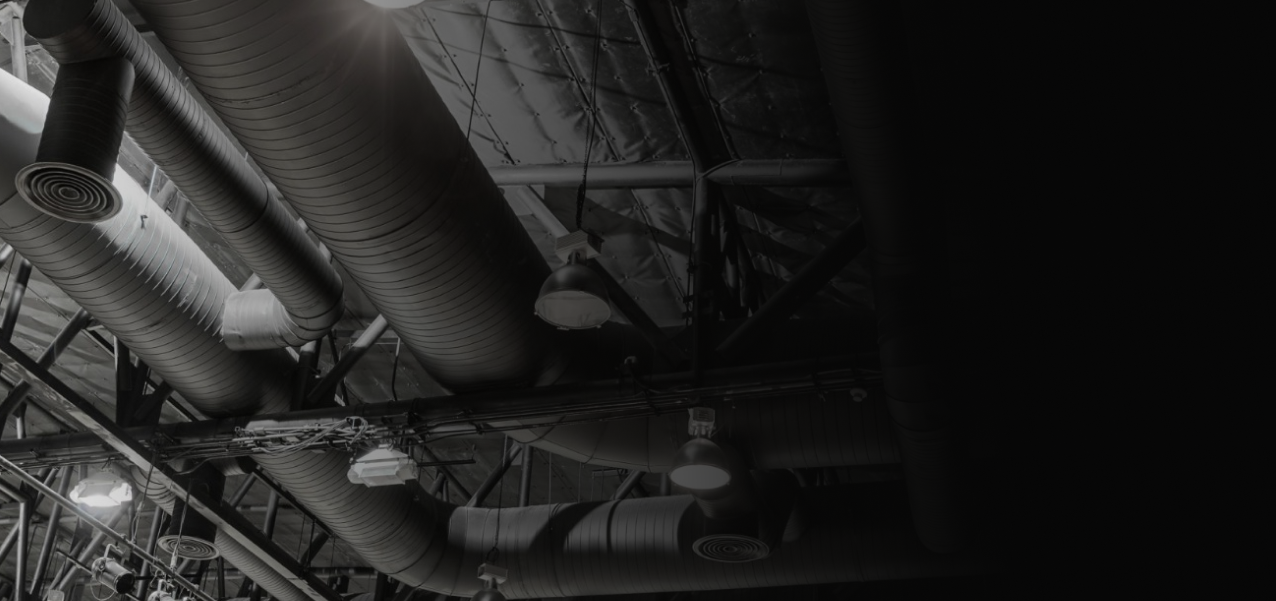
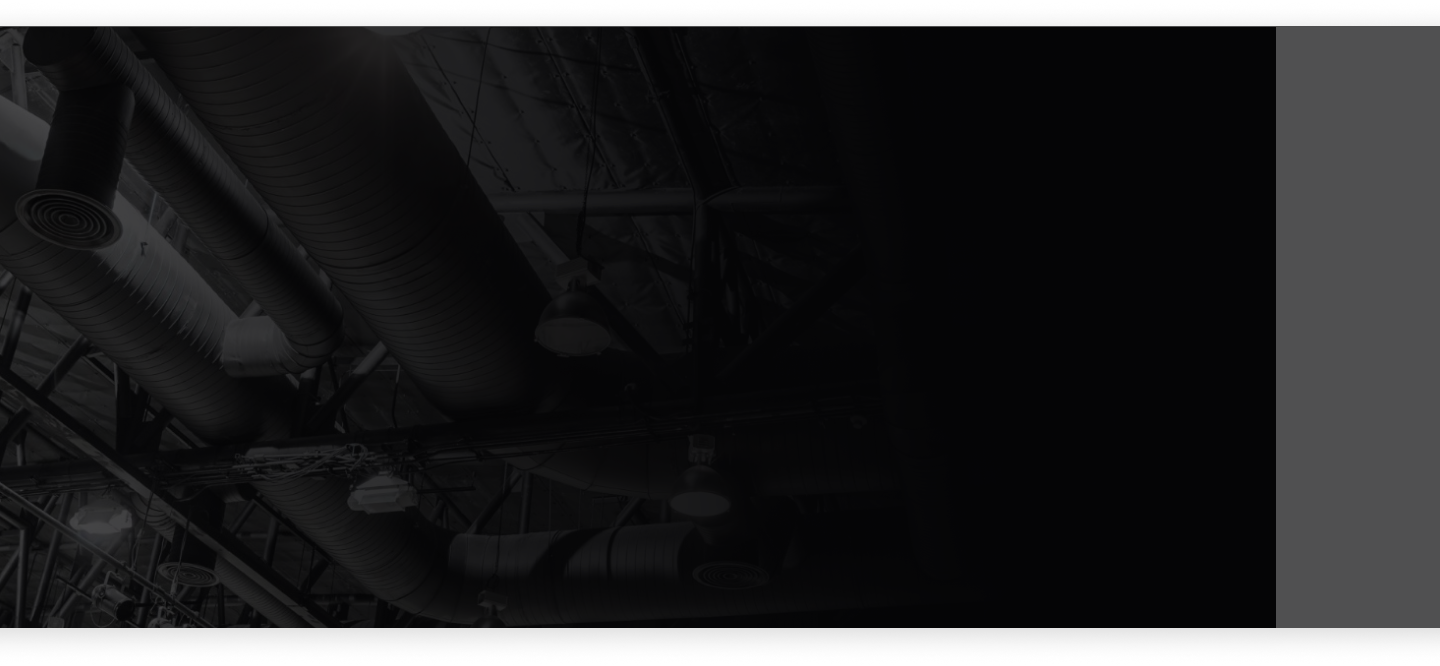
start adaptive page-service

diff --git a/src/scss/_page-service.scss b/src/scss/_page-service.scss
@@ -7,6 +7,7 @@
   // .construction__wrapper
   &__wrapper {
     padding-top: 40px;
+    padding-bottom: 120px;
     // padding-bottom: 60px;
     display: flex;
     flex-direction: column;
@@ -51,7 +52,7 @@
     display: flex;
     flex-direction: column;
     row-gap: 20px;
-    padding-bottom: 120px;
+    
   }
   // .construction__info
   &__info {
@@ -74,7 +75,7 @@
     flex-direction: column;
     row-gap: 55px;
     border-radius: 9px;
-    background: rgba(116, 113, 113, 0.10);
+    background-color: rgba(116, 113, 113, 0.10);
     box-shadow: 1px 1px 7px -4px rgba(6, 6, 6, 0.31) inset, 0px 4px 4px 0px rgba(0, 0, 0, 0.25);
     backdrop-filter: blur(7.5px);
     @extend %poir-400;
@@ -109,7 +110,7 @@
 //.finishes
 //========================================================================================================================================================
 .finishes {
-  padding-top: 60px;
+  // padding-top: 60px;
   padding-bottom: 75px;
   padding-right: max(15px, calc((100% - 1170px) / 2));
   padding-left: max(15px, calc((100% - 1440px) / 2));
@@ -146,6 +147,7 @@
   }
   // .finishes__title-logo
   &__title-logo {
+    overflow: hidden;
     img {
       width: 41px;
       height: 53px;
@@ -171,10 +173,10 @@
 //.reconstruction
 //========================================================================================================================================================
 .reconstruction {
-  padding-left: max(15px, calc((100% - 1170px) / 2));
-  padding-right: max(15px, calc((100% - 1440px) / 2));
   padding-top: 75px;
   padding-bottom: 45px;
+  padding-left: max(15px, calc((100% - 1170px) / 2));
+  padding-right: max(15px, calc((100% - 1440px) / 2));
   // .reconstruction__wrapper
   &__wrapper {
     padding-bottom: 20px;
@@ -201,6 +203,7 @@
   }
   // .reconstruction__title-logo
   &__title-logo {
+    overflow: hidden;
     img {
       width: 41px;
       height: 53px;
@@ -238,7 +241,7 @@
     max-width: 480px;
     padding: 32px;
     border-radius: 9px;
-    background: rgba(116, 113, 113, 0.10);
+    background-color: rgba(116, 113, 113, 0.10);
     box-shadow: 1px 1px 7px -4px rgba(6, 6, 6, 0.31) inset, 0px 4px 4px 0px rgba(0, 0, 0, 0.25);
     backdrop-filter: blur(7.5px);
   }
@@ -260,10 +263,6 @@
     background-repeat: no-repeat;
     background-size: contain;
     background-position: center;
-    opacity: 0.7;
-    background-color: #040406;
-    box-shadow: 1px 1px 7px 2px rgba(6, 6, 6, 0.31) inset, 5px 6px 30.7px 1px rgba(29, 29, 29, 0.25);
-    backdrop-filter: blur(7.5px);
   }
   // .heating__content
   &__content {
@@ -288,6 +287,11 @@
   }
   // .heating__title-logo
   &__title-logo {
+    overflow: hidden;
+    img {
+      width: 41px;
+      height: 53px;
+    }
   }
   // .heating__inner
   &__inner {
@@ -318,7 +322,7 @@
     justify-content: center;
     align-items: center;
     border-radius: 9px;
-    background: rgba(116, 113, 113, 0.10);
+    background-color: rgba(116, 113, 113, 0.10);
     box-shadow: 1px 1px 7px -4px rgba(6, 6, 6, 0.31) inset, 0px 4px 4px 0px rgba(0, 0, 0, 0.25);
     backdrop-filter: blur(7.5px);
   }
@@ -331,6 +335,90 @@
     span {
       color: $accent;
     }
+  }
+}
+//========================================================================================================================================================
+
+//.experts
+//========================================================================================================================================================
+.experts {
+  padding-top: 45px;
+  padding-bottom: 120px;
+  padding-left: max(15px, calc((100% - 1170px) / 2));
+  padding-right: max(15px, calc((100% - 1440px) / 2));
+  // .experts__wrapper
+  &__wrapper {
+    background-image: url(../img/page-service/experts-bg.png);
+    background-repeat: no-repeat;
+    background-size: 80%;
+    background-position: right 75%;
+  }
+  // .experts__content
+  &__content {
+    display: flex;  
+    flex-direction: column;
+    row-gap: 25px;
+
+  }
+  // .experts__box
+  &__box {
+    display: flex;
+    align-items: center;
+    column-gap: 20px;
+  }
+  // .experts__title
+  &__title {
+    @extend %title;
+  }
+  // .experts__title-logo
+  &__title-logo {
+    overflow: hidden;
+    img {
+      width: 41px;
+      height: 53px;
+    }
+  }
+  // .experts__inner
+  &__inner {
+    display: flex;
+    flex-direction: column;
+    row-gap: 45px;
+    @extend %poir-400;
+    font-size: rem(20);
+    line-height: math.div(19 , 20);
+    color: $white;
+  }
+  // .experts__info
+  &__info {
+    max-width: 580px;
+  }
+  // .experts__items
+  &__items {
+    padding-top: 15px;
+    display: flex;
+    align-items: center;
+    column-gap: 20px;
+  }
+  // .experts__item
+  &__item {
+    max-width: 480px;
+    padding: 32px 20px;
+    display: flex;
+    justify-content: center;
+    align-items: center;
+    background-color: rgba(116, 113, 113, 0.10);
+    box-shadow: 1px 1px 7px -4px rgba(6, 6, 6, 0.31) inset, 0px 4px 4px 0px rgba(0, 0, 0, 0.25);
+    backdrop-filter: blur(7.5px);
+    border-radius: 9px;
+    text-align: center;
+  }
+}
+.experts-items {
+  &__wrapper {
+    display: grid;
+    grid-template-columns: repeat(2, 1fr);
+    column-gap: 20px;
+    row-gap: 20px;
   }
 }
 

diff --git a/src/page-service.html b/src/page-service.html
@@ -202,12 +202,67 @@
 					</div>
 				</section>
 				<!-- end heating -->
-
+				<section class="experts">
+					<div class="experts__wrapper">
+						<div class="experts__content">
+							<div class="experts__box">
+								<h3 class="experts__title">Эксперты в сфере строительства</h3>
+								<img class="experts__title-logo" src="@img/all/title-logo.svg" alt="logo">
+							</div>
+							<div class="experts__inner">
+								<div class="experts__info">
+									<p>Компания «Реннова Групп» - команда экспертов в сфере строительства.</p>
+									<p>Подготовим за вас всю необходимую документацию: от тех.задания и сметы, до предоставления услуг строительного контроля.</p>
+									<p>Полный комплект документации:</p>
+								</div>
+								<div class="experts__items experts-items">
+									<div class="experts-items__wrapper">
+										<div class="experts__item">
+											<p>Акты скрытых работ, исполнительные схемы, чертежи</p>
+										</div>
+										<div class="experts__item">
+											<p>Смета контракта</p>
+										</div>
+										<div class="experts__item">
+											<p>Локальный, сводный сметный расчет в прог. Гранд-Смета 2023</p>
+										</div>
+										<div class="experts__item">
+											<p>Акты, справки по формам КС-2, КС-3</p>
+										</div>
+										<div class="experts__item">
+											<p>Ведомости объемов работ</p>
+										</div>
+										<div class="experts__item">
+											<p>Дефектные акты с выездом на объект</p>
+										</div>
+										<div class="experts__item">
+											<p>Проект организации строительства</p>
+										</div>
+										<div class="experts__item">
+											<p>График производства работ</p>
+										</div>
+										<div class="experts__item">
+											<p>Составление задания на проектирование объектов капитального строительства</p>
+										</div>
+										<div class="experts__item">
+											<p>Контрольные обмеры объектов различного уровня сложности</p>
+										</div>
+									</div>
+								</div>
+								<div class="experts__info">
+									<p>Кто мы? Эксперты-практики строительного контроля и надзора
+										Наша команда более  10 лет успешного опыта в сфере строительства.
+									</p>
+								</div>
+							</div>
+						</div>
+					</div>
+				</section>
 				<!-- start _contact-form -->
-				<!-- @@include('html/blocks/_contact-form.htm',{}) -->
+				@@include('html/blocks/_contact-form.htm',{})
 				<!-- end _contact-form -->
 			</main>
-			<!-- @@include('html/_footer.htm',{}) -->
+			@@include('html/_footer.htm',{})
 		</div>
 		@@include('html/_popup-send.htm',{})
 		@@include('html/_js.htm',{})
